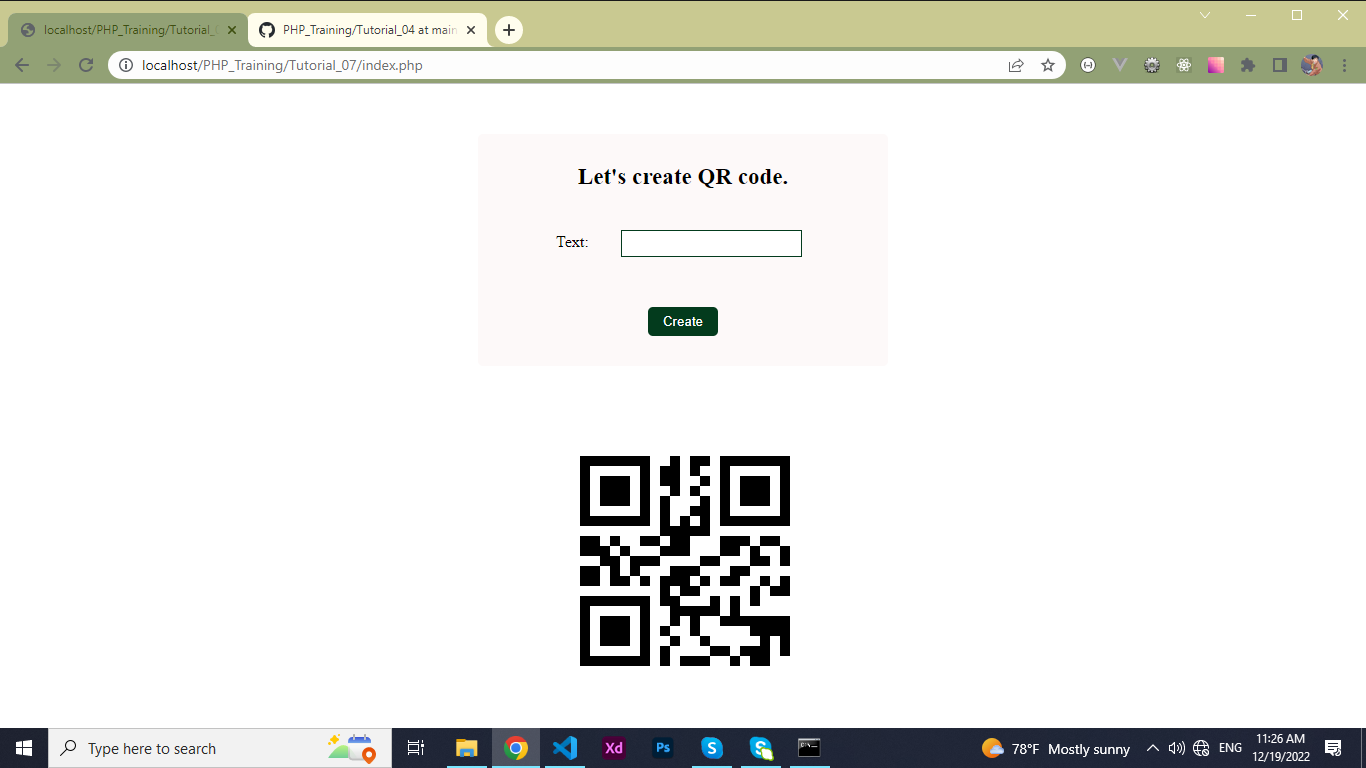
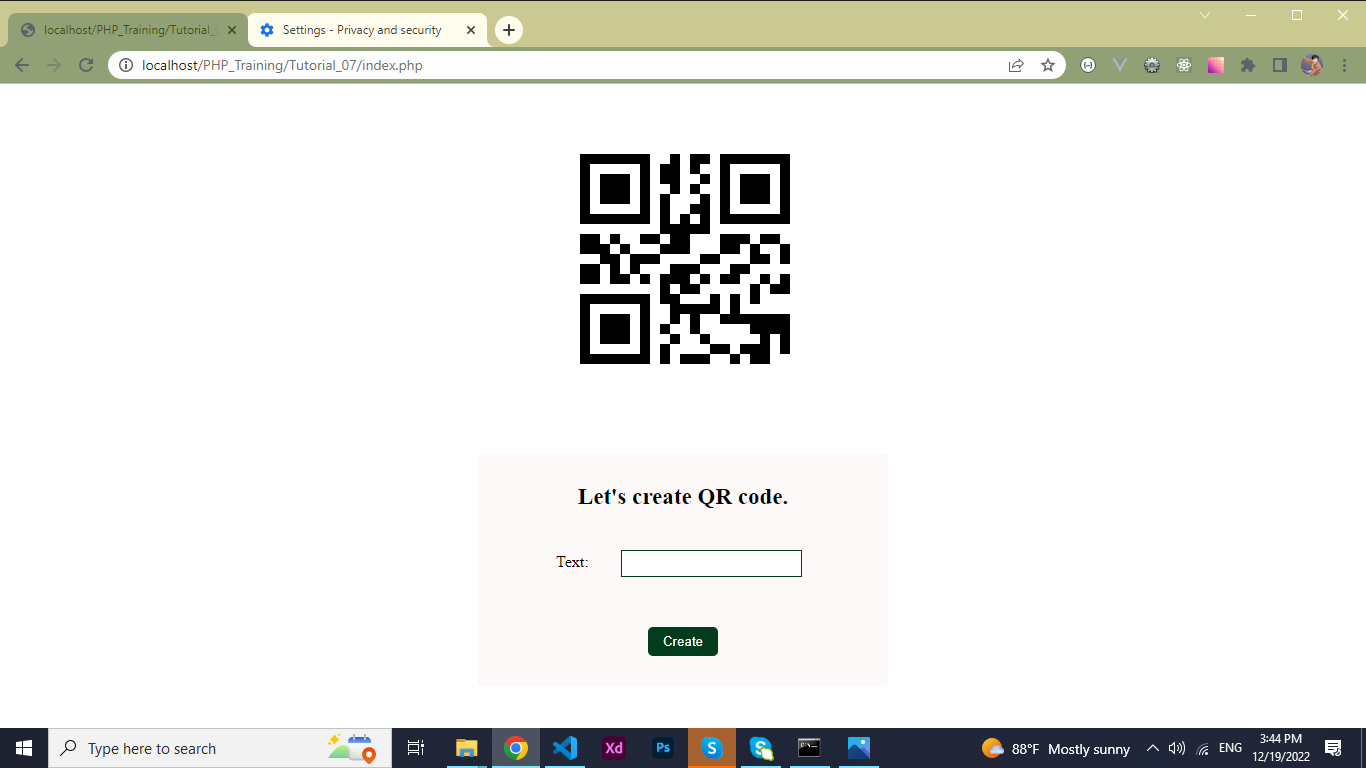
fixed review

diff --git a/Tutorial_07/index.php b/Tutorial_07/index.php
@@ -2,7 +2,31 @@
 <link rel="stylesheet" href="css/style.css">
 <div class="qr-image">
 <?php
+require_once("lib/lib/full/qrlib.php");
+
 $text_err = "";
+
+if (isset($_POST["submit"])) {
+
+    $input_text = trim($_POST["qr_text"]);
+    if (empty($input_text)) {
+      $text_err = "Please type text.";
+    } else {
+        $text = $input_text;
+        $path = "generate/";
+
+        if (!is_dir($path)) {
+            mkdir($path);
+        }
+
+        $save_txt = "generate/" . $input_text . ".png";
+        $pixel_size = 25;
+        $frame_size = 10;
+        
+        QRcode::png($text, $save_txt, $pixel_size, $frame_size);
+        echo "<img src='generate/$input_text.png'>";
+    }
+}
 ?>
 </div>
 <table class="qr-table">
@@ -22,27 +46,3 @@ $text_err = "";
         </tr>
     </form>
 </table>
-<div class="qr-image">
-<?php
-require_once("lib/lib/full/qrlib.php");
-
-$text_err = "";
-
-if (isset($_POST["submit"])) {
-
-    $input_text = trim($_POST["qr_text"]);
-    if (empty($input_text)) {
-      $text_err = "Please type text.";
-    } else {
-        $text = $input_text;
-
-        $save_txt = "generate/" . $input_text . ".png";
-        $pixel_size = 25;
-        $frame_size = 10;
-        
-        QRcode::png($text, $save_txt, $pixel_size, $frame_size);
-        echo "<img src='generate/$input_text.png'>";
-    }
-}
-?>
-</div>

diff --git a/Tutorial_06/index.php b/Tutorial_06/index.php
@@ -4,6 +4,8 @@
 error_reporting(0);
 $folder_err = "";
 $image_err = "";
+
+include "show.php";
 ?>
 <table class="data-table">
     <form method="post" action="<?php echo htmlspecialchars($_SERVER['PHP_SELF']); ?>" enctype="multipart/form-data">
@@ -29,6 +31,3 @@ $image_err = "";
         </tr>
     </form>
 </table>
-<?php
-include "show.php"
-?>
